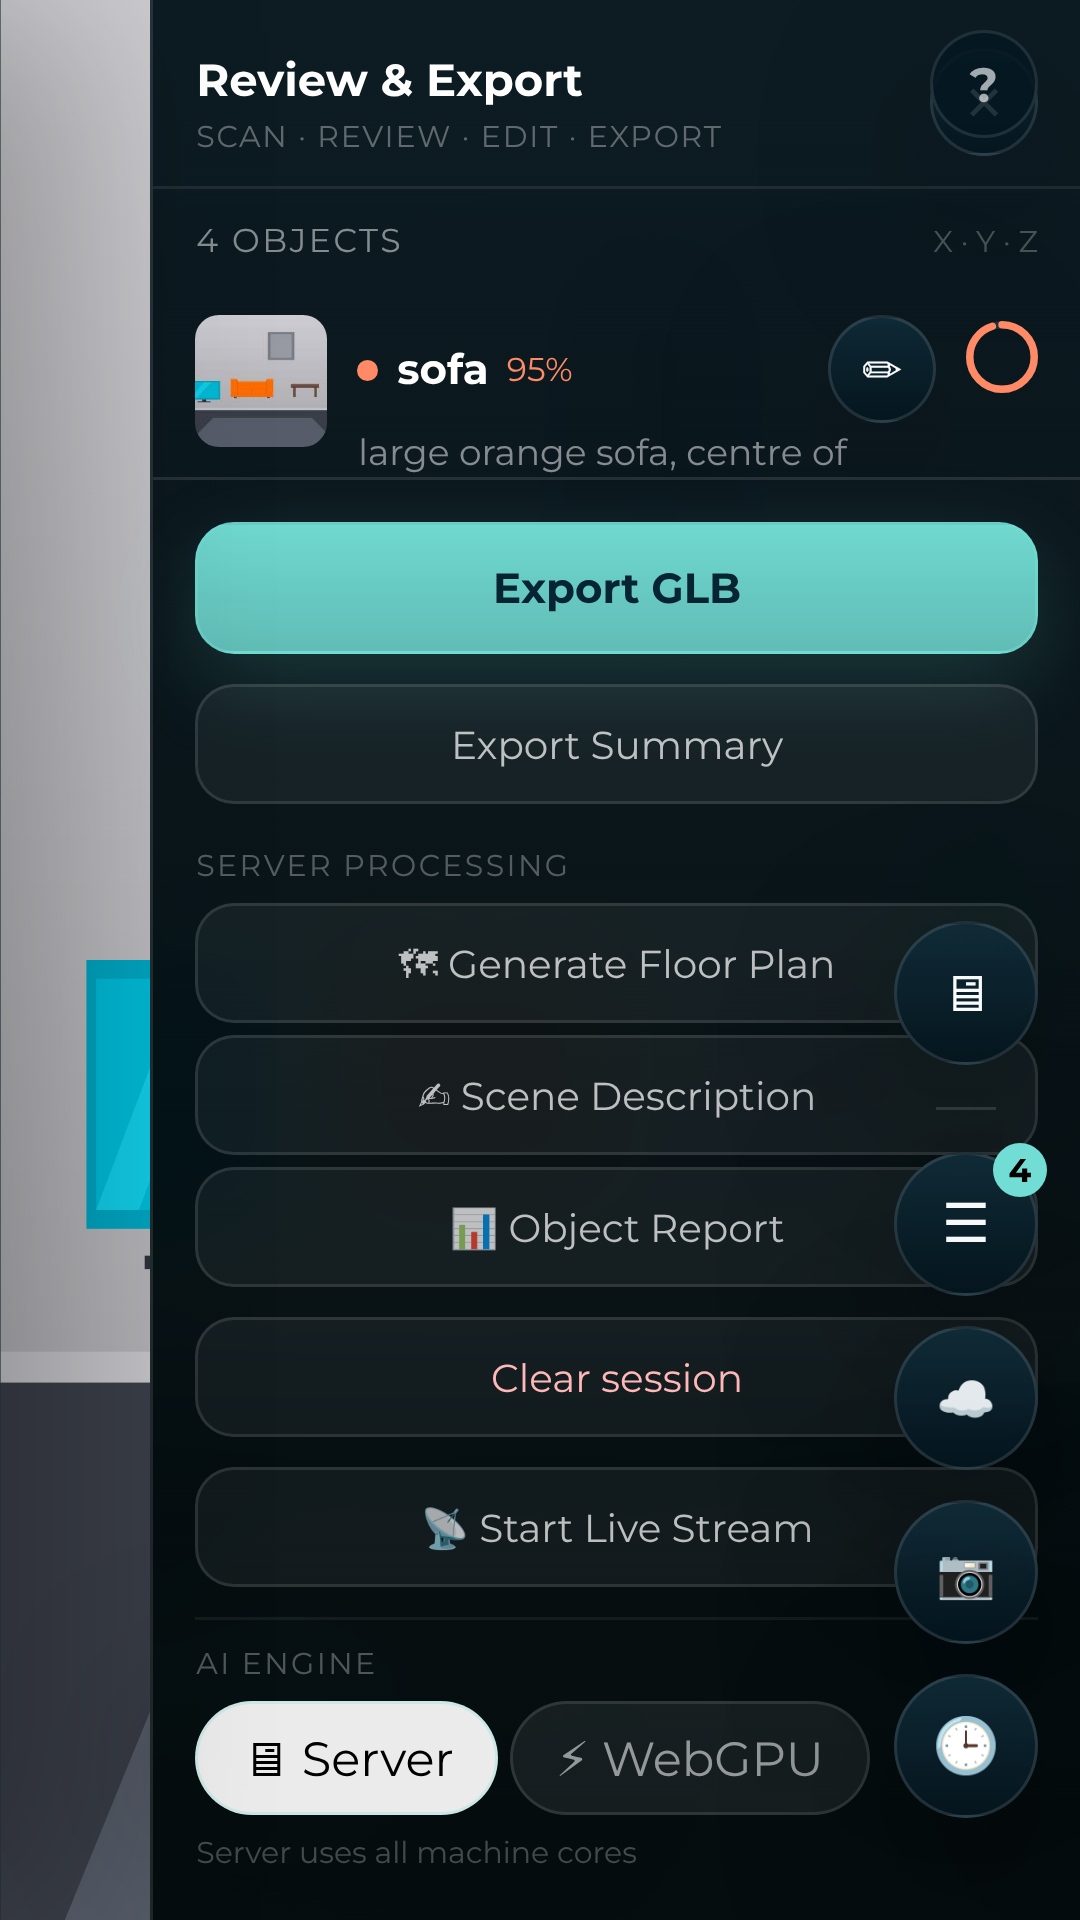
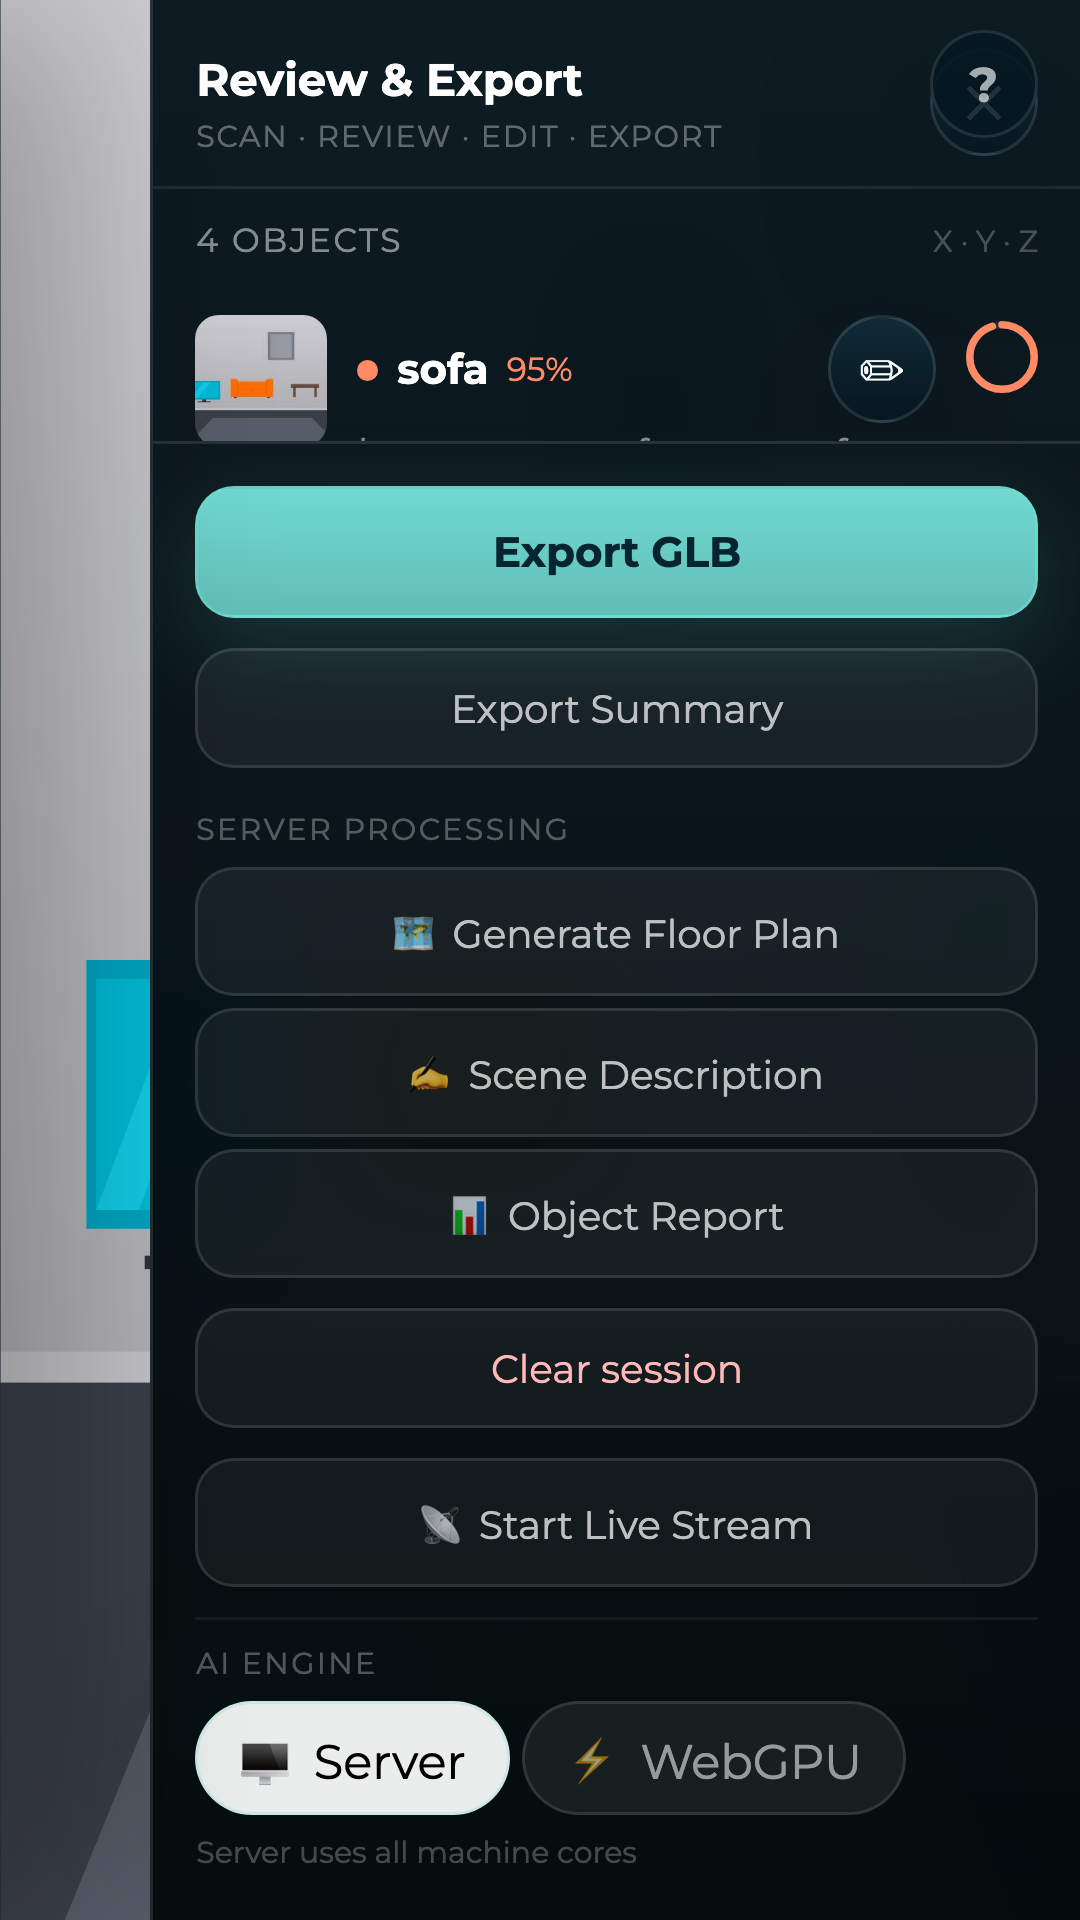
feat(video): shoot the twelve missing landscape frames, and a one-command stage
The Companion Scan cut had seven shots that had never been taken and three that
had gone stale since their `before` arrays changed. All ten are now shot, plus a
stage script so the next person can re-shoot them without reconstructing the
ritual from a comment header.

The mock-mode honesty block is gone
  The reason not to re-capture was that INFERENCE_MODE=mock wrote
  `mock colour-blob detection (N samples)` into every detection's `description`,
  and the UI renders that verbatim. PR #32 fixed it at the source:
  describeMockBlob builds the phrase from the blob's own palette match and bbox,
  inside the 7-word contract prompt.ts holds the real engines to. Verified in
  the pixels, not in the diff — the shipped frames read "large orange sofa,
  centre of frame". No debug string survives anywhere in the twenty PNGs.

scripts/video-stage.mjs
  Generates the fixtures, starts the Deno API on isolated data dirs, seeds world
  "default", blocks until every optimize job is `done`, then runs Vite in the
  foreground. Ctrl-C tears both down. VIDEO_PORT / VIDEO_API_PORT keep it out of
  the way of other agents staging apps at the same time; the capture only ever
  talks to VIDEO_PORT because vite.config.ts proxies the API routes.

  It also lays the seeded homes out 9 m apart instead of 122 m. That was the
  second half of the World Editor framing fix and it is load-bearing: with three
  homes a quarter of a kilometre apart, the two off-camera rooms projected their
[…]

diff --git a/video/README.md b/video/README.md
@@ -49,8 +49,32 @@ the runner above avoids that entirely by reading the package off disk.
 
 ## The stage
 
-From the **repo root**, **two** servers. Vite serves the app; the Deno API backs the World
-Editor and the detections panel.
+**One command, from the repo root.** [`scripts/video-stage.mjs`](../scripts/video-stage.mjs)
+generates the fixtures, starts the Deno API on isolated data dirs, seeds world `default`, blocks
+until every optimize job is `done`, and then runs Vite in the foreground. `Ctrl-C` tears both down.
+
+```bash
+node scripts/video-stage.mjs                       # Vite :5173, API :8000
+# or, when other agents are staging apps at the same time:
+VIDEO_PORT=5182 VIDEO_API_PORT=18182 node scripts/video-stage.mjs
+```
+
+Then, in this directory:
+
+```bash
+APP_URL=https://localhost:5182 npm run capture
+```
+
+Health-check the stage at `https://localhost:$VIDEO_PORT/health` — Vite proxies it to the API, so
+one green response means both servers are up. Knobs: `VIDEO_PORT`, `VIDEO_API_PORT`, `VIDEO_SCANS`
+(default 3), `VIDEO_DATA_DIR`.
+
+The script also places the seeded homes **adjacent** rather than 122 m apart — see
+[Framing the World Editor](#framing-the-world-editor) for why that is load-bearing rather than
+cosmetic, and read its header comment before changing the layout.
+
+<details>
+<summary>The same stage by hand, in two terminals</summary>
 
 ```bash
 # terminal 1 — the API, on isolated data dirs
@@ -66,7 +90,10 @@ COUNT=3 npm run seed:test-data     # three homes into world "default"
 TAILSCALE_HOSTNAME=localhost npm run dev -- --port 5173 --strictPort
 ```
 
-Then `npm run capture` in this directory.
+By hand you must also place the homes adjacent yourself, or the World Editor shots reproduce the
+122 m framing bug. Prefer the script.
+
+</details>
 
 Three things about the Vite command are load-bearing:
 
@@ -126,27 +153,32 @@ changed. They are the inputs, and they are the reason a render needs no stage.
 a UI change is a deliberate act: run `npm run capture` against the stage, review the image diff,
 and commit the shots like any other change.
 
-### Shots still awaiting a capture run
+### The landscape cut is complete; five portrait frames are deliberately not shot
 
-Seven shots are declared in `storyboard.json` but have no PNG yet, so they render as the kit's
-branded "capture pending" slate. The build passes either way — that is the point of the slate —
-but the cut is not finished until these are shot. Each one needs the full stage below:
+All seventeen shots exist at 1280×720. The seven that had never been taken (`onboard-sweep`,
+`live-scan-early`, `objects-manifest`, `review-panel-empty`, `world-editor-focus`,
+`world-editor-points`, `world-editor-quality`) and the three that had gone stale
+(`world-editor-scans`, `world-editor-semantic`, `review-export-panel`) were all shot against the
+stage above. Two consecutive runs, on two independently built stages, produced **byte-identical**
+PNGs for every one of them.
 
-```bash
-npm run capture -- --only onboard-sweep,live-scan-early,objects-manifest,review-panel-empty,world-editor-focus,world-editor-points,world-editor-quality
-```
+**Five 360×640 frames are missing on purpose** and render as the kit's "capture pending" slate:
 
-Three **committed** shots are also stale, because their `before` arrays changed after they were
-taken. Re-shoot them in the same run:
-
-```bash
-npm run capture -- --only world-editor-scans,world-editor-semantic,review-export-panel
-```
-
-| Shot | Why it is stale |
+| Not shipped | Why |
 |---|---|
-| `world-editor-scans`, `world-editor-semantic` | now click `#btn-reset-camera` before the shutter (see "Framing the World Editor" below) and hide `#coord-readout` |
-| `review-export-panel` | now hides `#scanner-action-rail` as well as `#hud-panel` — the floating rail was sitting on top of Generate Floor Plan, Object Report, Clear session and Start Live Stream |
+| `objects-manifest.mobile`, `review-panel-empty.mobile` | `#panel-content` is ~90 CSS px tall at 360×640 — the footer takes the rest — so the panel slices its own content mid-line. "No objects yet." is cut in half; the sofa card is cut through its description row. |
+| `world-editor-focus.mobile`, `world-editor-points.mobile`, `world-editor-quality.mobile` | The World Editor has no 360 px layout. The sidebar takes the top two thirds, `#inspector-panel` lands on top of the world-stats overlay, and the semantic labels clip against the left edge of the canvas strip (`lamp 94%` → `%`). |
+
+The rule this follows: a missing shot is a known gap, a bad shot is a lie that ships. Do **not**
+"fix" these by re-running `capture` — the kit shoots both viewports for every shot, so a plain
+`npm run capture` regenerates all five. Delete them again, or give the product a mobile layout.
+
+Three portrait frames in the same family — `review-export-panel.mobile`,
+`world-editor-scans.mobile`, `world-editor-semantic.mobile` — **were** re-shot and committed. They
+have the same layout crowding, but they were already committed *and* the versions they replace
+burned a live street-level `ENU … 37.775726, -122.418800` readout into the frame. Replacing a
+coordinate leak with a crowded layout is strictly better; dropping them is better still, and is the
+recommendation once someone decides the portrait cut can lose those beats.
 
 ### Framing the World Editor
 
@@ -166,22 +198,35 @@ Two ways out, and they compose:
    viewer shot except `world-editor-focus` now clicks it. `world-editor-focus` needs no click:
    clicking a `.scan-item` calls `selectScan(id, true)` (`viewer.ts:511`), and `focus: true`
    already fits the camera to that scan.
-2. **Better, if you are re-seeding anyway.** Seed rooms that belong to *one* home, adjacent in
-   space, so "every room, one world" is literally what the viewport shows. That is the frame the
-   `world-editor` scene is written for.
+2. **Better, and now what the stage does.** `scripts/video-stage.mjs` rewrites `geoLat`/`geoLng` in
+   the seeded homes' metadata so the three rooms sit **9 m apart in one row** instead of 122 m
+   apart in three postcodes. Nothing about the product is faked: the geo pose is fixture data and
+   the viewer's geo→local assembly is untouched. What changes is that "every room you scan lands in
+   one 3D world" becomes literally what the viewport shows — and the two off-camera rooms stop
+   flinging their semantic labels into the top-right corner, where they used to land on top of
+   `#inspector-panel` and cover its Size / Room / Floor values.
 
-`map-quality` needs one more thing from the seed: the seeded homes carry neither a reconstruction
-manifest nor a trained splat, so `quality-tier.ts:56-70` will light **Preview** with the other two
-tiers dark, while the narration over it says "upgraded to a photoreal map". Seed a Reconstructed
-and a Photoreal scan first (`npm run test:splat:make-fixture`) or the shot contradicts its own line.
+   Direction matters and was measured, not guessed: with `#btn-reset-camera` framing the
+   auto-selected scan, neighbours stepped **west** stay inside the canvas, and neighbours stepped
+   east, north or south fall behind the camera and out of frame entirely.
 
-| Shot | Scene | What it has to catch |
+`map-quality` was the one shot expected to contradict its own narration, and it does not. The
+seeded homes carry neither a reconstruction manifest nor a trained splat, so `quality-tier.ts:56-70`
+lights **Preview** with the other two tiers dark — but it also renders the app's own next-step copy,
+"Reconstruct from your keyframes to reach Reconstructed", under a three-step Preview → Reconstructed
+→ Photoreal ladder. The narration is "every scan *can be* upgraded to a photoreal map", and a lit
+first rung above the route to the other two is exactly that claim. Seeding a real Photoreal scan
+(`npm run test:splat:make-fixture`) would show the end state instead of the path; it is not needed
+to make the shot true. One blemish remains: at the sidebar's 280 px the middle step elides to
+`Reconstr…` in the landscape frame. The portrait frame renders all three labels in full.
+
+| Shot | Scene | What it caught |
 |---|---|---|
 | `onboard-sweep` | `ftue-permissions` | FTUE card 2 of 5, "Sweep the Room Slowly" |
-| `live-scan-early` | `live-scan` | the HUD at `mockFreeze=90` — a thin map, before the walk fills it |
-| `objects-manifest` | `objects-named` | the side panel scrolled to the top of the object list |
-| `review-panel-empty` | `review-and-export` | the same panel opened *before* the first capture |
-| `world-editor-focus` | `world-editor` | second scan picked: camera flown to it, Edit tab open |
+| `live-scan-early` | `live-scan` | the HUD at `mockFreeze=90` — 2,110 pts, a `SPARSE` chip and "Low — keep scanning" |
+| `objects-manifest` | `objects-named` | the side panel at the top of the object list: `4 OBJECTS`, `sofa 95%`, "large orange sofa, centre of frame", X·Y·Z |
+| `review-panel-empty` | `review-and-export` | the same panel opened *before* the first capture — "No objects yet. Tap the capture button to scan." |
+| `world-editor-focus` | `world-editor` | second scan picked: camera flown to it, Edit tab open on its transform and semantic tags |
 | `world-editor-points` | `semantic-world` | the world drawn as a raw point cloud |
 | `world-editor-quality` | `map-quality` | the Layers tab's Preview / Reconstructed / Photoreal stepper |
 
@@ -190,6 +235,18 @@ Six of the seven are one half of a two-shot scene — `live-scan-early`, `review
 `objects-manifest` and `world-editor-focus` are what the committed shot dissolves *into*. The
 seventh, `world-editor-quality`, is the only shot of the new `map-quality` scene. Capturing them
 is what turns those beats from a still into a state change.
+
+Two things reviewers ask about, both checked against the pixels rather than assumed:
+
+- **The mock is no longer visible in the frame.** `INFERENCE_MODE=mock` used to write
+  `mock colour-blob detection (N samples)` into every detection's `description`, which the UI
+  renders verbatim. `describeMockBlob` (inference.ts, PR #32) replaced it with a phrase built from
+  the blob's own colour and bbox, inside the same 7-word contract the real engines follow. The
+  shipped frames read "large orange sofa, centre of frame" — derived from the pixels, not a canned
+  string, and no debug text anywhere in the shot.
+- **The camera feed is synthetic and looks it.** Every scanner frame is
+  `public/test-fixtures/xr8-mock.js` painting a flat-shaded room. That is the documented way to
+  film AR without a phone; it is a stand-in for a camera, not a claim about output quality.
 
 See [CI-Engineering `projects/product-video-pipeline/`](https://github.com/companionintelligence/CI-Engineering/tree/main/projects/product-video-pipeline)
 for the full contract.
